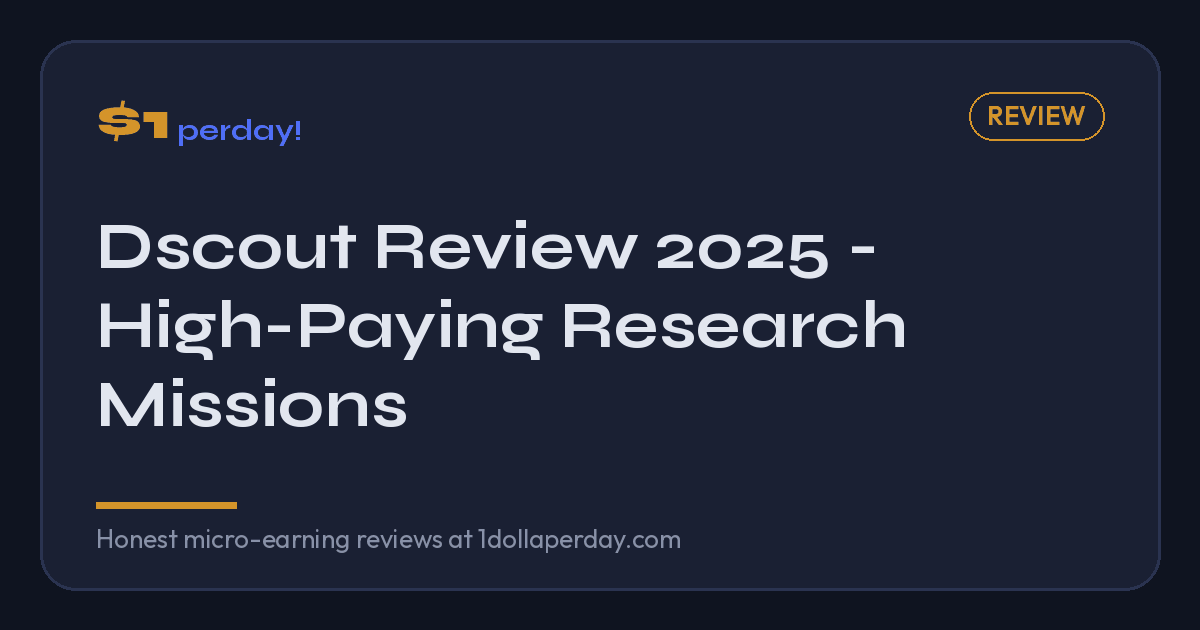
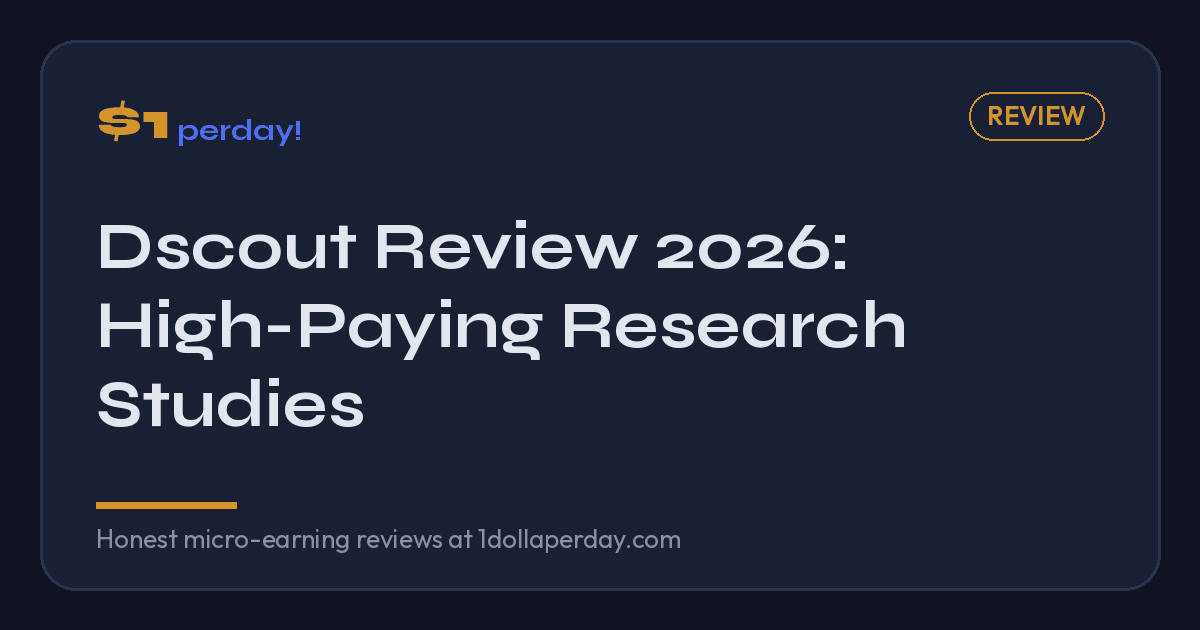
Correct dscout review: single-session studies $2-25, most studies $25-150, unpaid applications, per its help centre

Changed region(s): [[0.0617, 0.6032, 0.3392, 0.6937], [0.6475, 0.3619, 0.74, 0.4524]]

diff --git a/reviews/dscout.html b/reviews/dscout.html
@@ -19,24 +19,24 @@
     <meta charset="UTF-8">
     <meta name="viewport" content="width=device-width, initial-scale=1.0">
 
-    <title>Dscout Review 2025 - High-Paying Research Missions | $1perday!</title>
-    <meta name="description" content="Honest Dscout review 2025. Get paid $5-100+ per mission for sharing feedback via video diary entries. Is it worth it?">
+    <title>Dscout Review 2026: High-Paying Research Studies | $1perday!</title>
+    <meta name="description" content="Dscout pays $2 to $25 for quick single-session studies and mostly $25 to $150 for selective diary and interview studies, via PayPal. What to expect.">
     <meta name="keywords" content="Dscout review, Dscout legit, Dscout missions, Dscout payment, research app review">
 
     <link rel="canonical" href="https://1dollaperday.com/reviews/dscout">
 
-    <meta property="og:title" content="Dscout Review 2025 - High-Paying Research Missions">
-    <meta property="og:description" content="Dscout pays $5-100+ per mission for video diary research. One of the highest-paying research apps.">
+    <meta property="og:title" content="Dscout Review 2026: High-Paying Research Studies">
+    <meta property="og:description" content="Dscout pays $2 to $25 for quick studies and mostly $25 to $150 for diary and interview studies, via PayPal.">
     <meta property="og:type" content="article">
     <meta property="og:url" content="https://1dollaperday.com/reviews/dscout">
     <meta property="og:site_name" content="$1perday!">
     <meta property="og:image" content="https://1dollaperday.com/assets/og/reviews--dscout.png">
     <meta property="og:image:width" content="1200">
     <meta property="og:image:height" content="630">
-    <meta property="og:image:alt" content="Dscout Review 2025 - High-Paying Research Missions">
+    <meta property="og:image:alt" content="Dscout Review 2026: High-Paying Research Studies">
     <meta name="twitter:card" content="summary_large_image">
-    <meta name="twitter:title" content="Dscout Review 2025 - High-Paying Research Missions">
-    <meta name="twitter:description" content="Dscout pays $5-100+ per mission for video diary research. One of the highest-paying research apps.">
+    <meta name="twitter:title" content="Dscout Review 2026: High-Paying Research Studies">
+    <meta name="twitter:description" content="Dscout pays $2 to $25 for quick studies and mostly $25 to $150 for diary and interview studies, via PayPal.">
     <meta name="twitter:image" content="https://1dollaperday.com/assets/og/reviews--dscout.png">
 
     <link rel="preconnect" href="https://fonts.googleapis.com">
@@ -56,9 +56,9 @@
         "itemReviewed": {"@type": "SoftwareApplication", "name": "Dscout", "url": "https://dscout.com"},
         "author": {"@type": "Organization", "name": "$1perday!"},
         "reviewRating": {"@type": "Rating", "ratingValue": "8.0", "bestRating": "10", "worstRating": "1"},
-        "reviewBody": "Dscout offers high-paying research missions where you share feedback through video diaries. Missions pay $5-100+ but acceptance is competitive.",
+        "reviewBody": "Dscout offers high-paying research missions where you share feedback through video diaries. Most study rewards are $25 to $150, but acceptance is competitive.",
         "datePublished": "2025-01-01",
-        "dateModified": "2026-02-03",
+        "dateModified": "2026-10-23",
         "publisher": {"@type": "Organization", "name": "$1perday!"}
     }
     </script>
@@ -114,7 +114,7 @@
             <article class="article">
                 <header class="review-header">
                     <div class="review-title-section">
-                        <span class="last-updated">Updated January 2025</span>
+                        <span class="last-updated">Updated October 2026</span>
                         <h1>Dscout Review</h1>
                         <p class="article-meta">Category: Research App</p>
                     </div>
@@ -129,7 +129,7 @@
 
                 <div class="article-content">
                     <div class="quick-answer" id="quick-answer">
-                        <p>Dscout is a legitimate research platform paying $5–$100+ per mission. It involves recording short video diary entries about your daily life and habits. Pay is well above average but missions are selective — not everyone qualifies. Best for users willing to invest time in quality responses. Rating: 8.0/10.</p>
+                        <p>Dscout is a legitimate research platform: quick single-session studies pay $2 to $25, and most selective diary and interview studies pay $25 to $150. It involves recording short video diary entries about your daily life and habits. Pay is well above average but missions are selective — not everyone qualifies. Best for users willing to invest time in quality responses. Rating: 8.0/10.</p>
                     </div>
 
                     <div class="quick-facts">
@@ -141,7 +141,7 @@
                             </div>
                             <div class="quick-fact">
                                 <span class="quick-fact-label">Pay Per Mission</span>
-                                <span class="quick-fact-value">$5 - $100+</span>
+                                <span class="quick-fact-value">$2 - $150+</span>
                             </div>
                             <div class="quick-fact">
                                 <span class="quick-fact-label">Payment Methods</span>
@@ -172,7 +172,7 @@
 
                         <p>The platform is used by major companies like Google, Spotify, Facebook, and Nike to understand how real people interact with their products. Because the feedback is more detailed than a typical survey, the compensation is significantly higher.</p>
 
-                        <p>Missions typically pay $25-100, with some multi-part studies paying $150 or more. The catch is that acceptance is competitive - you apply for missions and are selected based on your profile and responses.</p>
+                        <p>Dscout says most study payouts range from $25 to $150, with some paying more or less depending on time and effort. The catch is that acceptance is competitive: you apply (applications are unpaid) and are selected based on your profile and responses.</p>
                     </section>
 
                     <div class="ad-placeholder banner"></div>
@@ -190,7 +190,7 @@
 
                         <h3>Types of Missions</h3>
                         <ul>
-                            <li><strong>Express Missions:</strong> Quick $5-15 tasks, single entry</li>
+                            <li><strong>Single-session studies</strong> (formerly Express missions): quick $2-25 tasks done in one sitting, no application needed</li>
                             <li><strong>Diary Missions:</strong> Multi-day studies tracking experiences</li>
                             <li><strong>Live Missions:</strong> Video calls with researchers</li>
                             <li><strong>Product Testing:</strong> Test products and share feedback</li>
@@ -216,9 +216,9 @@
                             </thead>
                             <tbody>
                                 <tr>
-                                    <td>Express missions</td>
-                                    <td>5-15 min</td>
-                                    <td>$5-15</td>
+                                    <td>Single-session studies</td>
+                                    <td>One short sitting</td>
+                                    <td>$2-25</td>
                                 </tr>
                                 <tr>
                                     <td>Standard missions</td>
@@ -237,6 +237,7 @@
                                 </tr>
                             </tbody>
                         </table>
+                        <p class="text-small text-muted">Single-session range from Dscout's help centre. Other rows are typical ranges within Dscout's stated $25-$150 for most studies; each study shows its reward before you apply.</p>
 
                         <p><strong>Monthly estimate:</strong> $20-200/month depending on mission availability and how often you're selected. Some months you may not qualify for anything; other months you could earn $100+.</p>
                     </section>
@@ -247,7 +248,7 @@
                             <div class="pros">
                                 <h4>Pros</h4>
                                 <ul>
-                                    <li>High pay per mission ($25-100+)</li>
+                                    <li>High pay per study (mostly $25-150)</li>
                                     <li>More interesting than surveys</li>
                                     <li>Work with major brands</li>
                                     <li>Flexible - complete on your schedule</li>
@@ -382,6 +383,10 @@
 
             <aside class="sidebar">
                 <div class="ad-placeholder sidebar"></div>
+                <div class="sidebar-widget">
+                    <h3>Sources</h3>
+                    <p class="text-small">Pay ranges and payout method checked against the <a href="https://participanthelp.dscout.com/getting-paid/frequently-asked-questions" target="_blank" rel="noopener nofollow">Dscout participant help centre</a> on 23 October 2026.</p>
+                </div>
                 <div class="sidebar-widget">
                     <h3>Similar Platforms</h3>
                     <ul>

diff --git a/reviews/index.html b/reviews/index.html
@@ -640,9 +640,9 @@
                                     <h3><a href="dscout">Dscout</a></h3>
                                     <span class="rating-badge recommended">Recommended</span>
                                 </div>
-                                <p class="review-card-summary">High-paying video diary research missions. Earn $25-100+ per mission for sharing feedback with major brands.</p>
+                                <p class="review-card-summary">Paid research studies with major brands. Quick single-session studies pay $2-25; selective diary and interview studies mostly $25-150.</p>
                                 <div class="review-card-meta">
-                                    <span>Pay: $25-100+/mission</span>
+                                    <span>Pay: $2-150+/study</span>
                                     <span>Payment: PayPal</span>
                                 </div>
                                 <a href="dscout" class="review-card-link">Read Full Review &rarr;</a>
